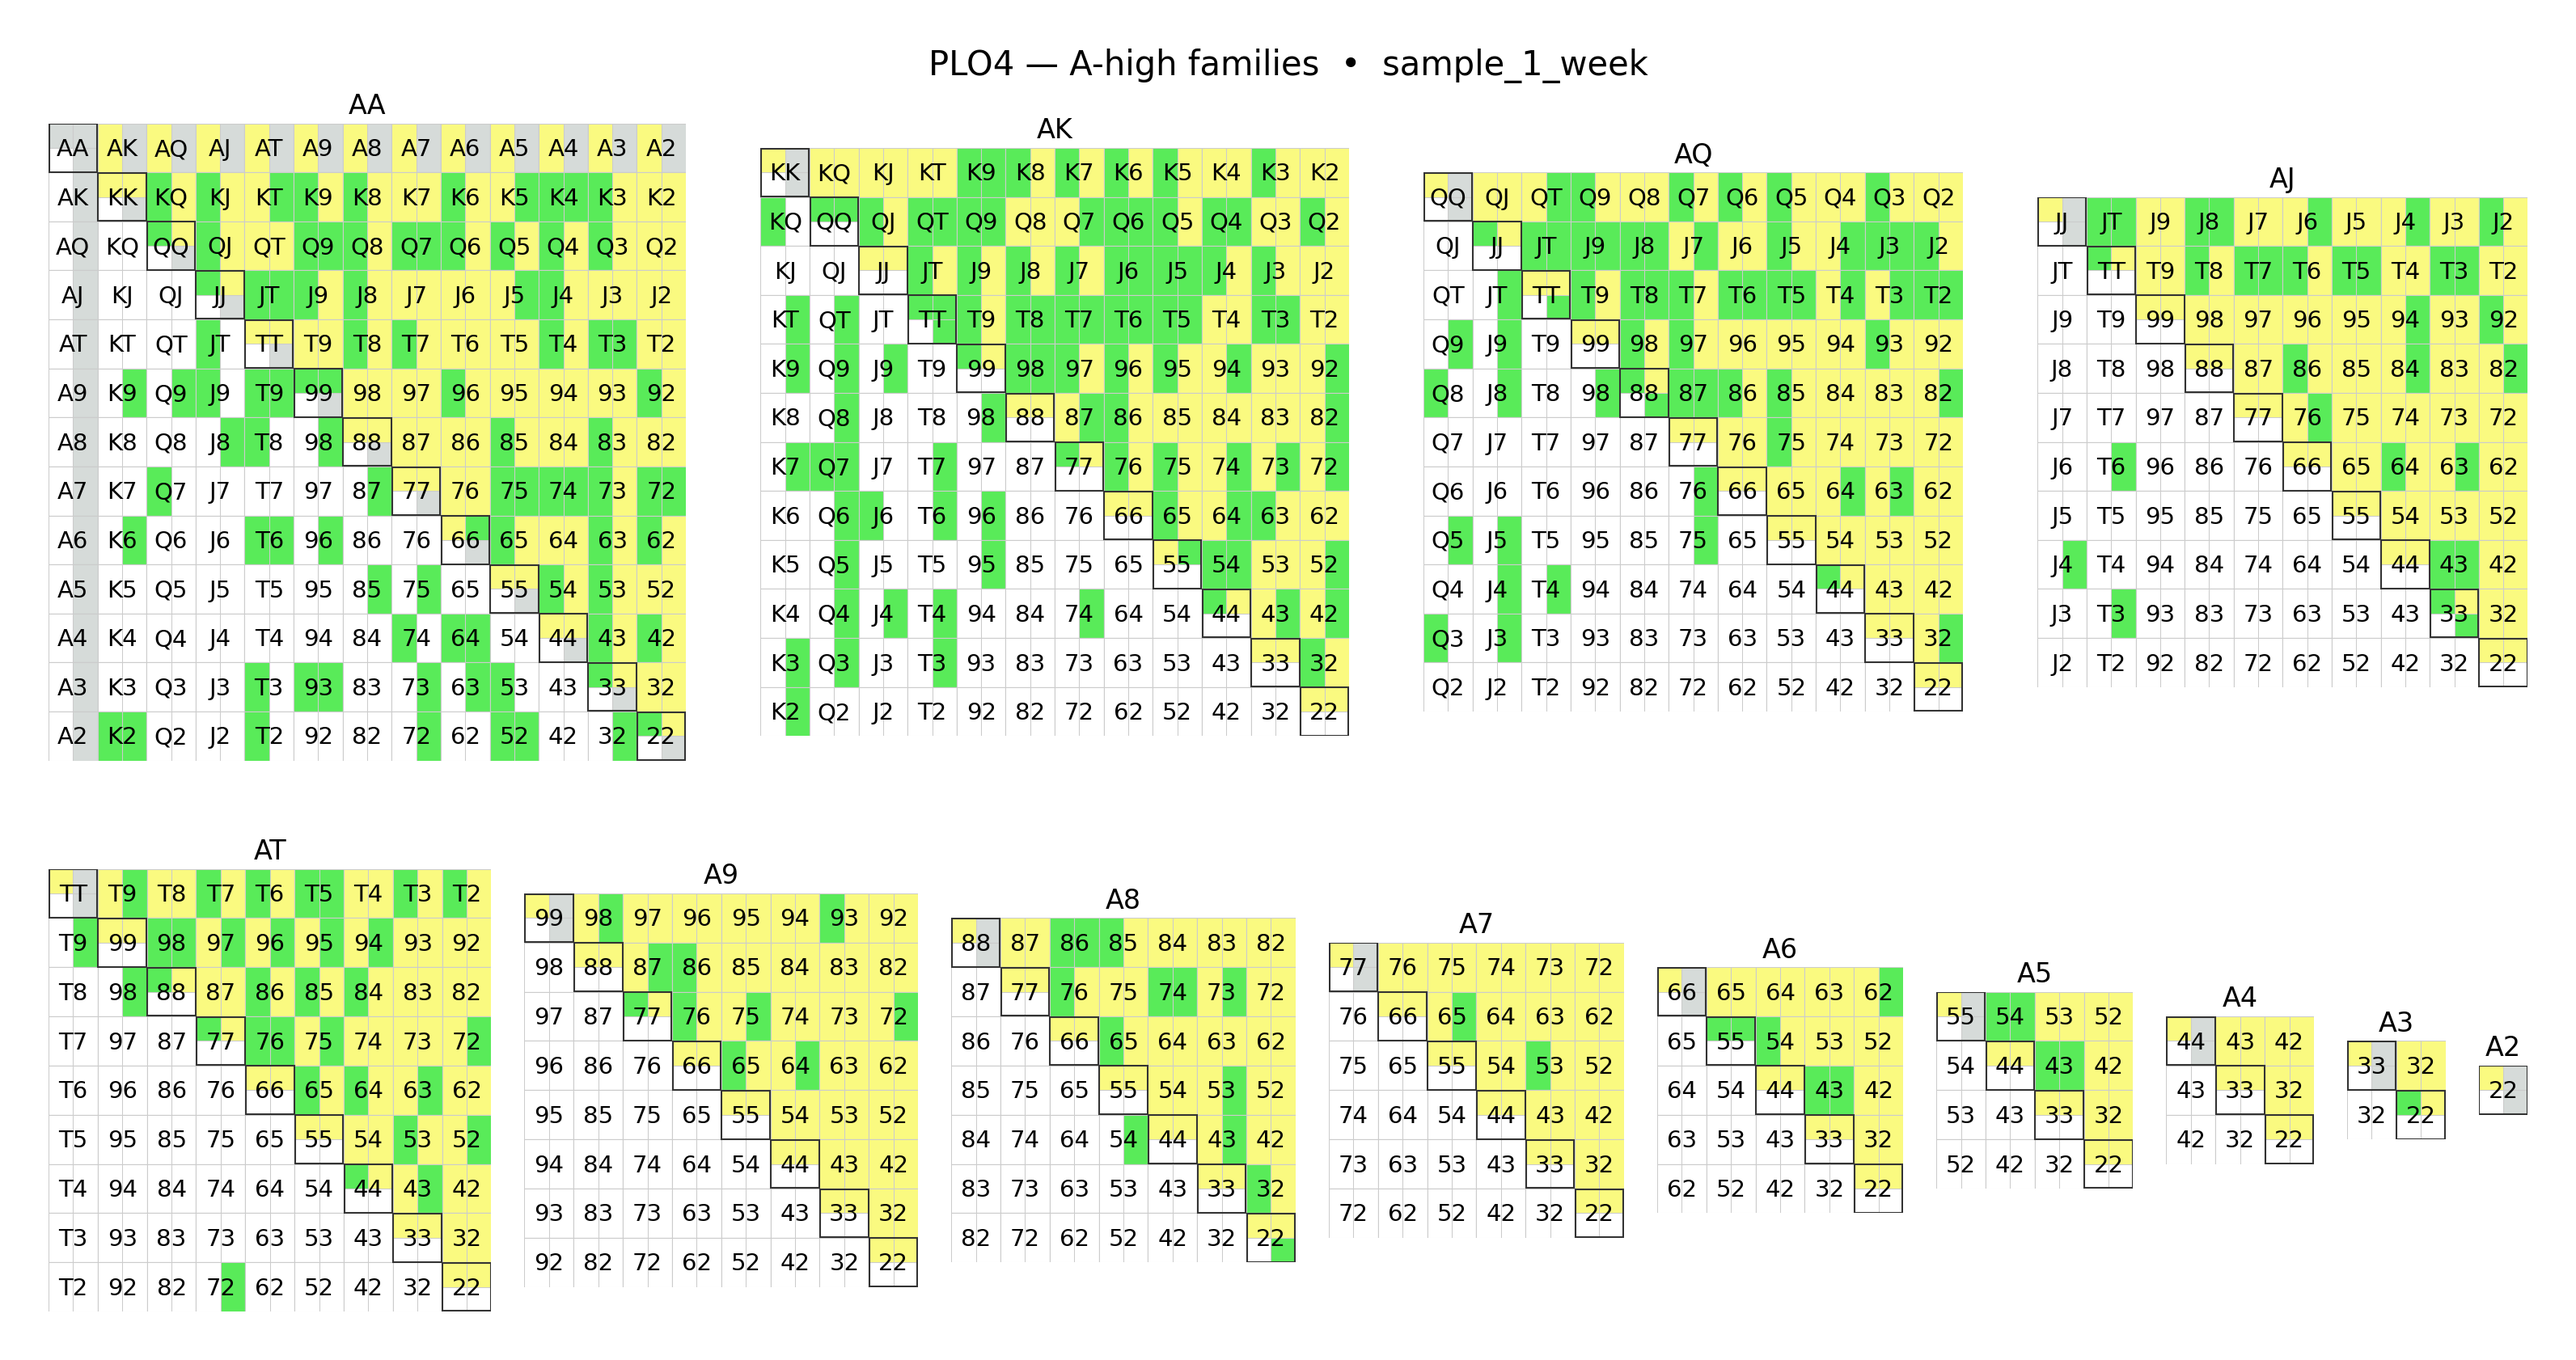
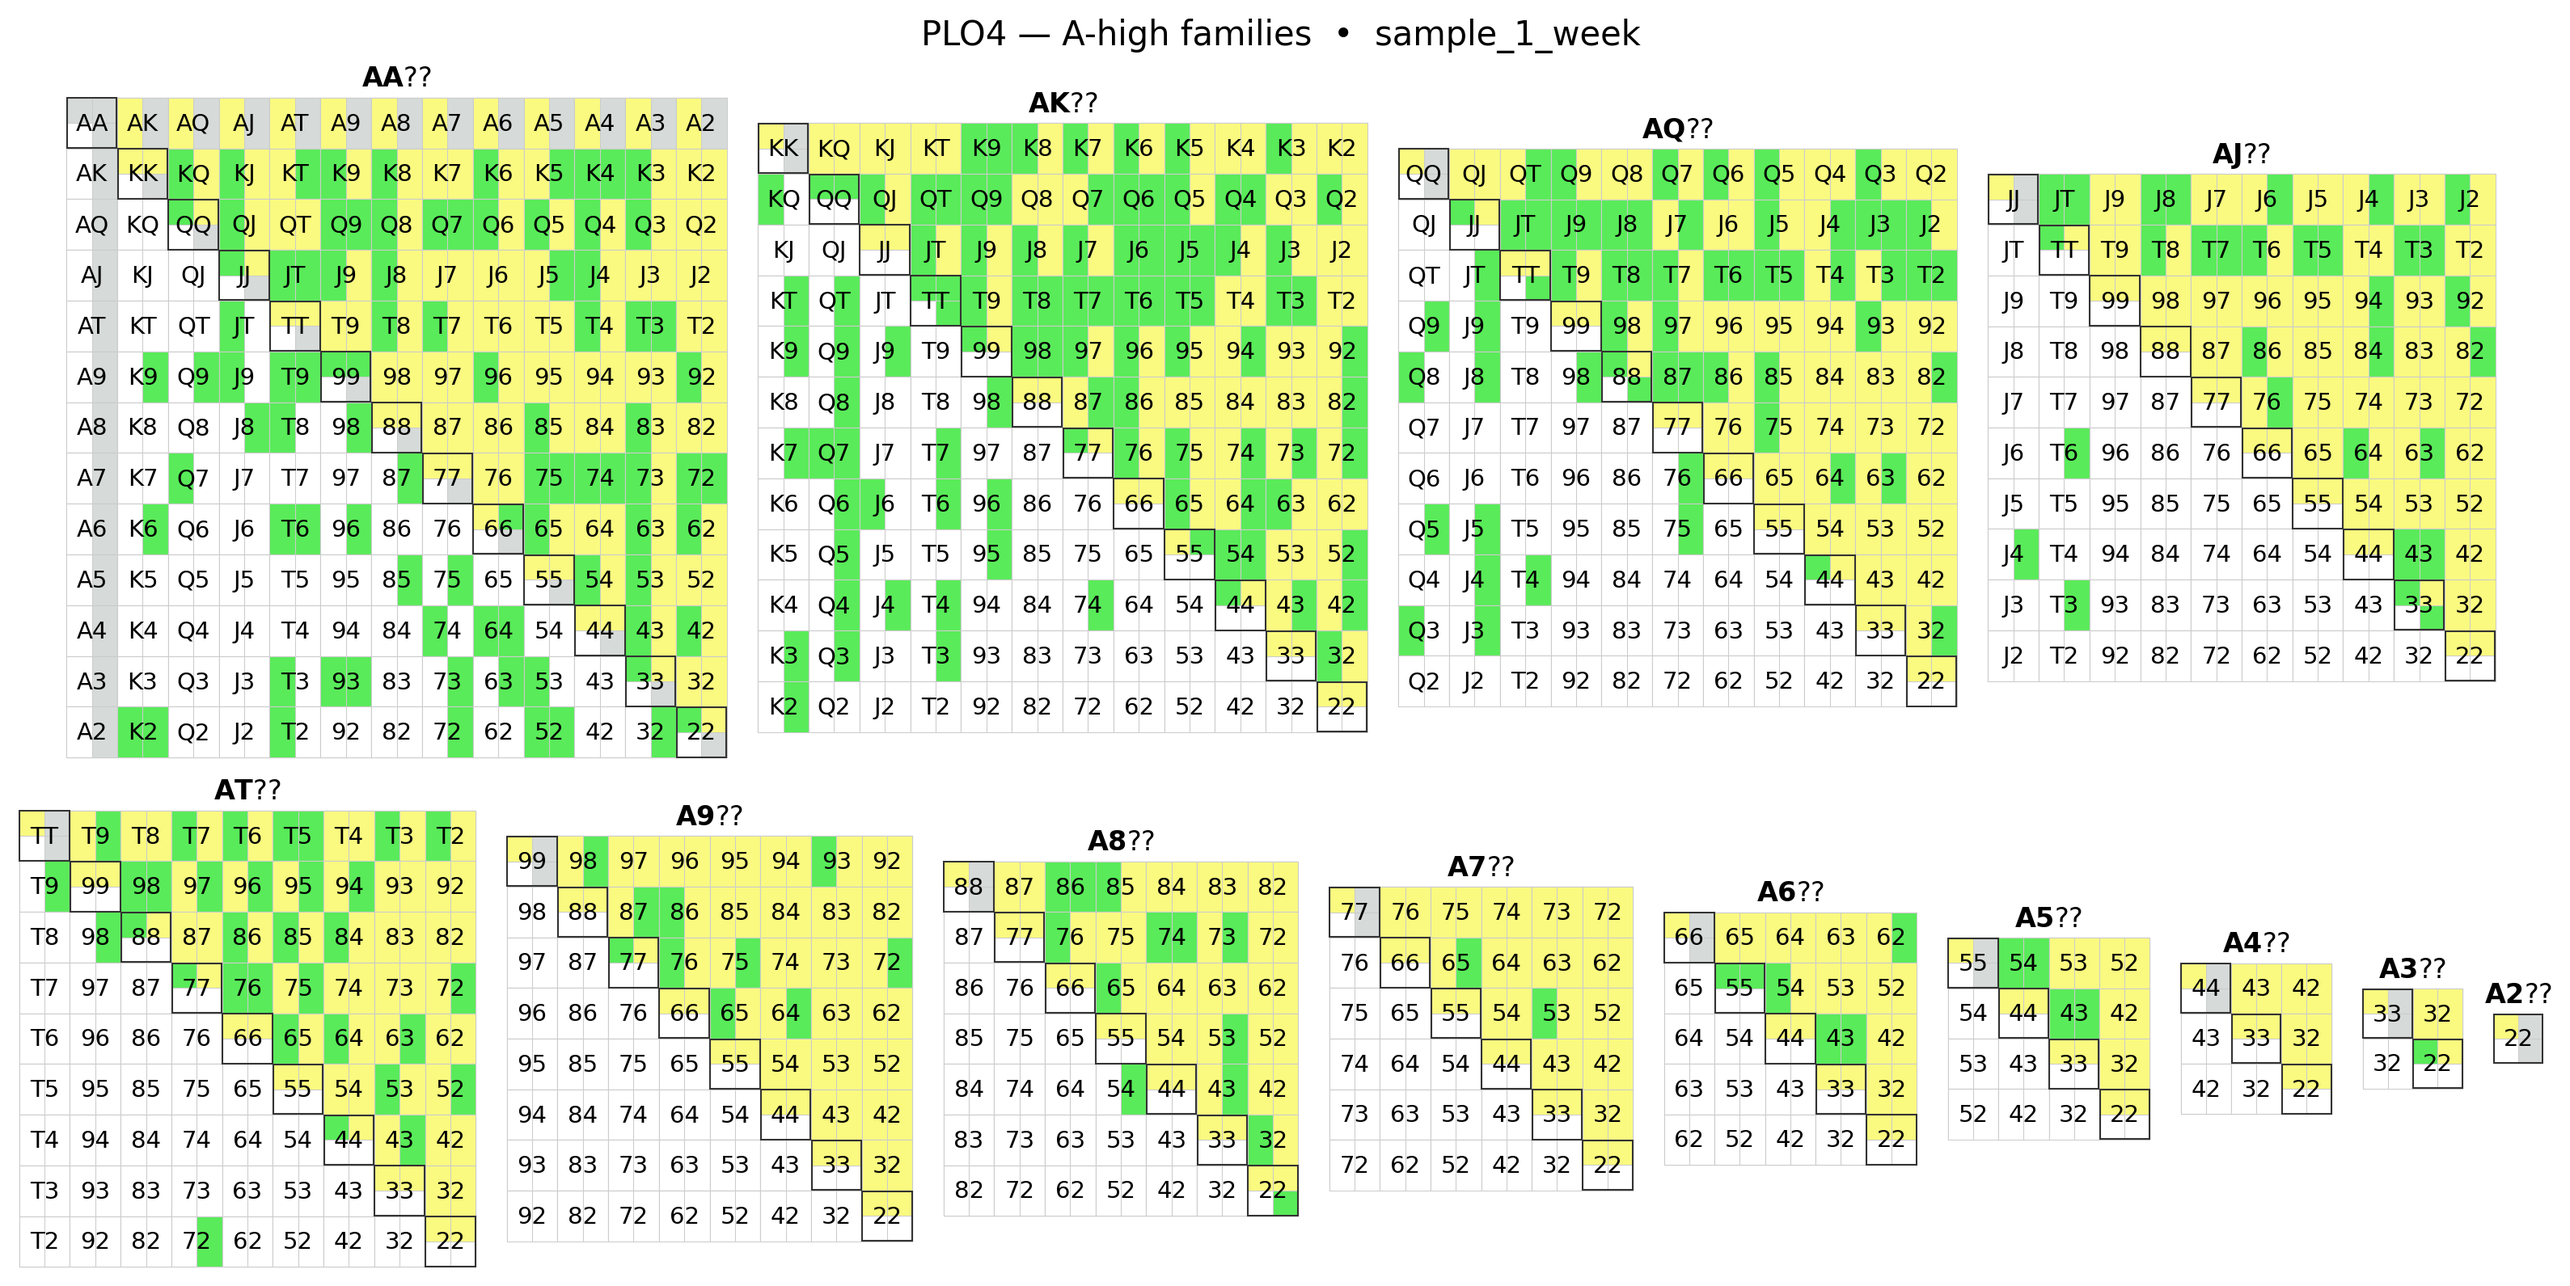
fix: Massive layout improvements

diff --git a/plo4_draw_hands.py b/plo4_draw_hands.py
@@ -76,8 +76,9 @@ def draw_one(ax, have_set, hi, lo):
     assert all(r in ORDER for r in domain), f"bad cards in domain: {domain}"
     n = len(domain)
 
-    ax.set_xlim(0, n)
-    ax.set_ylim(0, n)
+    EPS = 0.02  # small data margin to avoid clipping strokes
+    ax.set_xlim(-EPS, n + EPS)
+    ax.set_ylim(-EPS, n + EPS)
     ax.set_aspect("equal")
     ax.invert_yaxis()
     ax.set_xticks([])
@@ -171,9 +172,10 @@ def layout_family(m):
 
 
 def render_family(csv_path, all_labels, hi):
-    lowers = CARDS[CARDS.index(hi) :]  # include AA..A2
+    lowers = CARDS[CARDS.index(hi) :]  # AA..A2
     parts = [(lo, len(CARDS) - CARDS.index(lo)) for lo in lowers]  # (lo, n)
 
+    # split into two balanced rows by total n (keeps rows visually even)
     total_w = sum(n for _, n in parts)
     cut, acc = 0, 0
     while cut < len(parts) and acc < total_w / 2:
@@ -181,44 +183,57 @@ def render_family(csv_path, all_labels, hi):
         cut += 1
     row1, row2 = parts[:cut], parts[cut:]
 
-    r1_max = max(n for _, n in row1) if row1 else 0
-    r2_max = max(n for _, n in row2) if row2 else 0
-    CELL, HM, VM = 0.42, 1.2, 1.4  # inches per cell, horiz/vert margins
+    # constant cell size; small gaps between grids; only vertical gap between rows
+    CELL = 0.42  # inches per cell (same as your pair renderer)
+    GAP_W = 0.24  # horizontal space between grids in a row
+    GAP_H = 0.42  # vertical gap between the two rows
+    TITLE_H = 0.70  # vertical clearance (in) reserved for the suptitle
 
-    fig_w = CELL * max(sum(n for _, n in row1), sum(n for _, n in row2)) + HM
-    fig_h = CELL * (r1_max + r2_max) + VM
-    fig = plt.figure(figsize=(fig_w, fig_h), constrained_layout=True)
-    gs = fig.add_gridspec(
-        nrows=2 if row2 else 1,
-        ncols=1,
-        height_ratios=[r1_max] + ([r2_max] if row2 else []),
-        hspace=0.25,
-    )
-    fig.suptitle(f"PLO4 — {hi}-high families  •  {csv_path.stem}", fontsize=20, y=1.02)
+    def row_dims(row):
+        if not row:
+            return 0.0, 0.0
+        width = sum(n * CELL for _, n in row) + GAP_W * (len(row) - 1)
+        height = max(n for _, n in row) * CELL
+        return width, height
 
-    # row 1
-    sub1 = gs[0].subgridspec(
-        1, len(row1), width_ratios=[n for _, n in row1], wspace=0.12
-    )
-    for idx, (lo, n) in enumerate(row1):
-        ax = fig.add_subplot(sub1[0, idx])
-        have = {h for h in all_labels if h.startswith(hi + lo)}
-        draw_one(ax, have, hi, lo)
-        ax.set_title(f"{hi}{lo}", fontsize=16, pad=6)
+    w1, h1 = row_dims(row1)
+    w2, h2 = row_dims(row2)
 
-    # row 2 (if any)
-    if row2:
-        sub2 = gs[1].subgridspec(
-            1, len(row2), width_ratios=[n for _, n in row2], wspace=0.12
-        )
-        for idx, (lo, n) in enumerate(row2):
-            ax = fig.add_subplot(sub2[0, idx])
-            have = {h for h in all_labels if h.startswith(hi + lo)}
+    inner_w = max(w1, w2)  # no L/R margins
+    fig_w = inner_w
+    fig_h = TITLE_H + h1 + (GAP_H if row2 else 0) + h2  # no bottom margin
+
+    fig = plt.figure(figsize=(fig_w, fig_h))  # manual placement
+    fig.suptitle(f"PLO4 — {hi}-high family  •  {csv_path.stem}", fontsize=20, y=0.995)
+
+    def place_row(row, y_bottom_in, row_height_in):
+        if not row:
+            return
+        row_w, _ = row_dims(row)
+        # horizontally center the whole row inside inner_w
+        x = (inner_w - row_w) / 2
+        for lo, n in row:
+            gw = gh = n * CELL
+            # vertically center THIS grid inside the row slot
+            bottom = y_bottom_in + (row_height_in - gh) / 2
+            left = x
+            ax = fig.add_axes([left / fig_w, bottom / fig_h, gw / fig_w, gh / fig_h])
+            have = {hnd for hnd in all_labels if hnd.startswith(hi + lo)}
             draw_one(ax, have, hi, lo)
-            ax.set_title(f"{hi}{lo}", fontsize=16, pad=6)
+            ax.set_title(rf"$\mathbf{{{hi}{lo}}}$??", fontsize=16, pad=6)
+            x += gw + GAP_W
+
+    # top row slot starts just under title band
+    y1 = fig_h - TITLE_H - h1
+    place_row(row1, y1, h1)
+
+    # bottom row slot (if any)
+    if row2:
+        y2 = 0.0
+        place_row(row2, y2, h2)
 
     out_png = csv_path.with_suffix("").with_name(f"{csv_path.stem}_{hi}_family.png")
-    fig.savefig(out_png, dpi=150, bbox_inches="tight", pad_inches=0.4)
+    fig.savefig(out_png, dpi=150, bbox_inches="tight", pad_inches=0.15)
     print(f"Wrote {out_png}")
 
 
